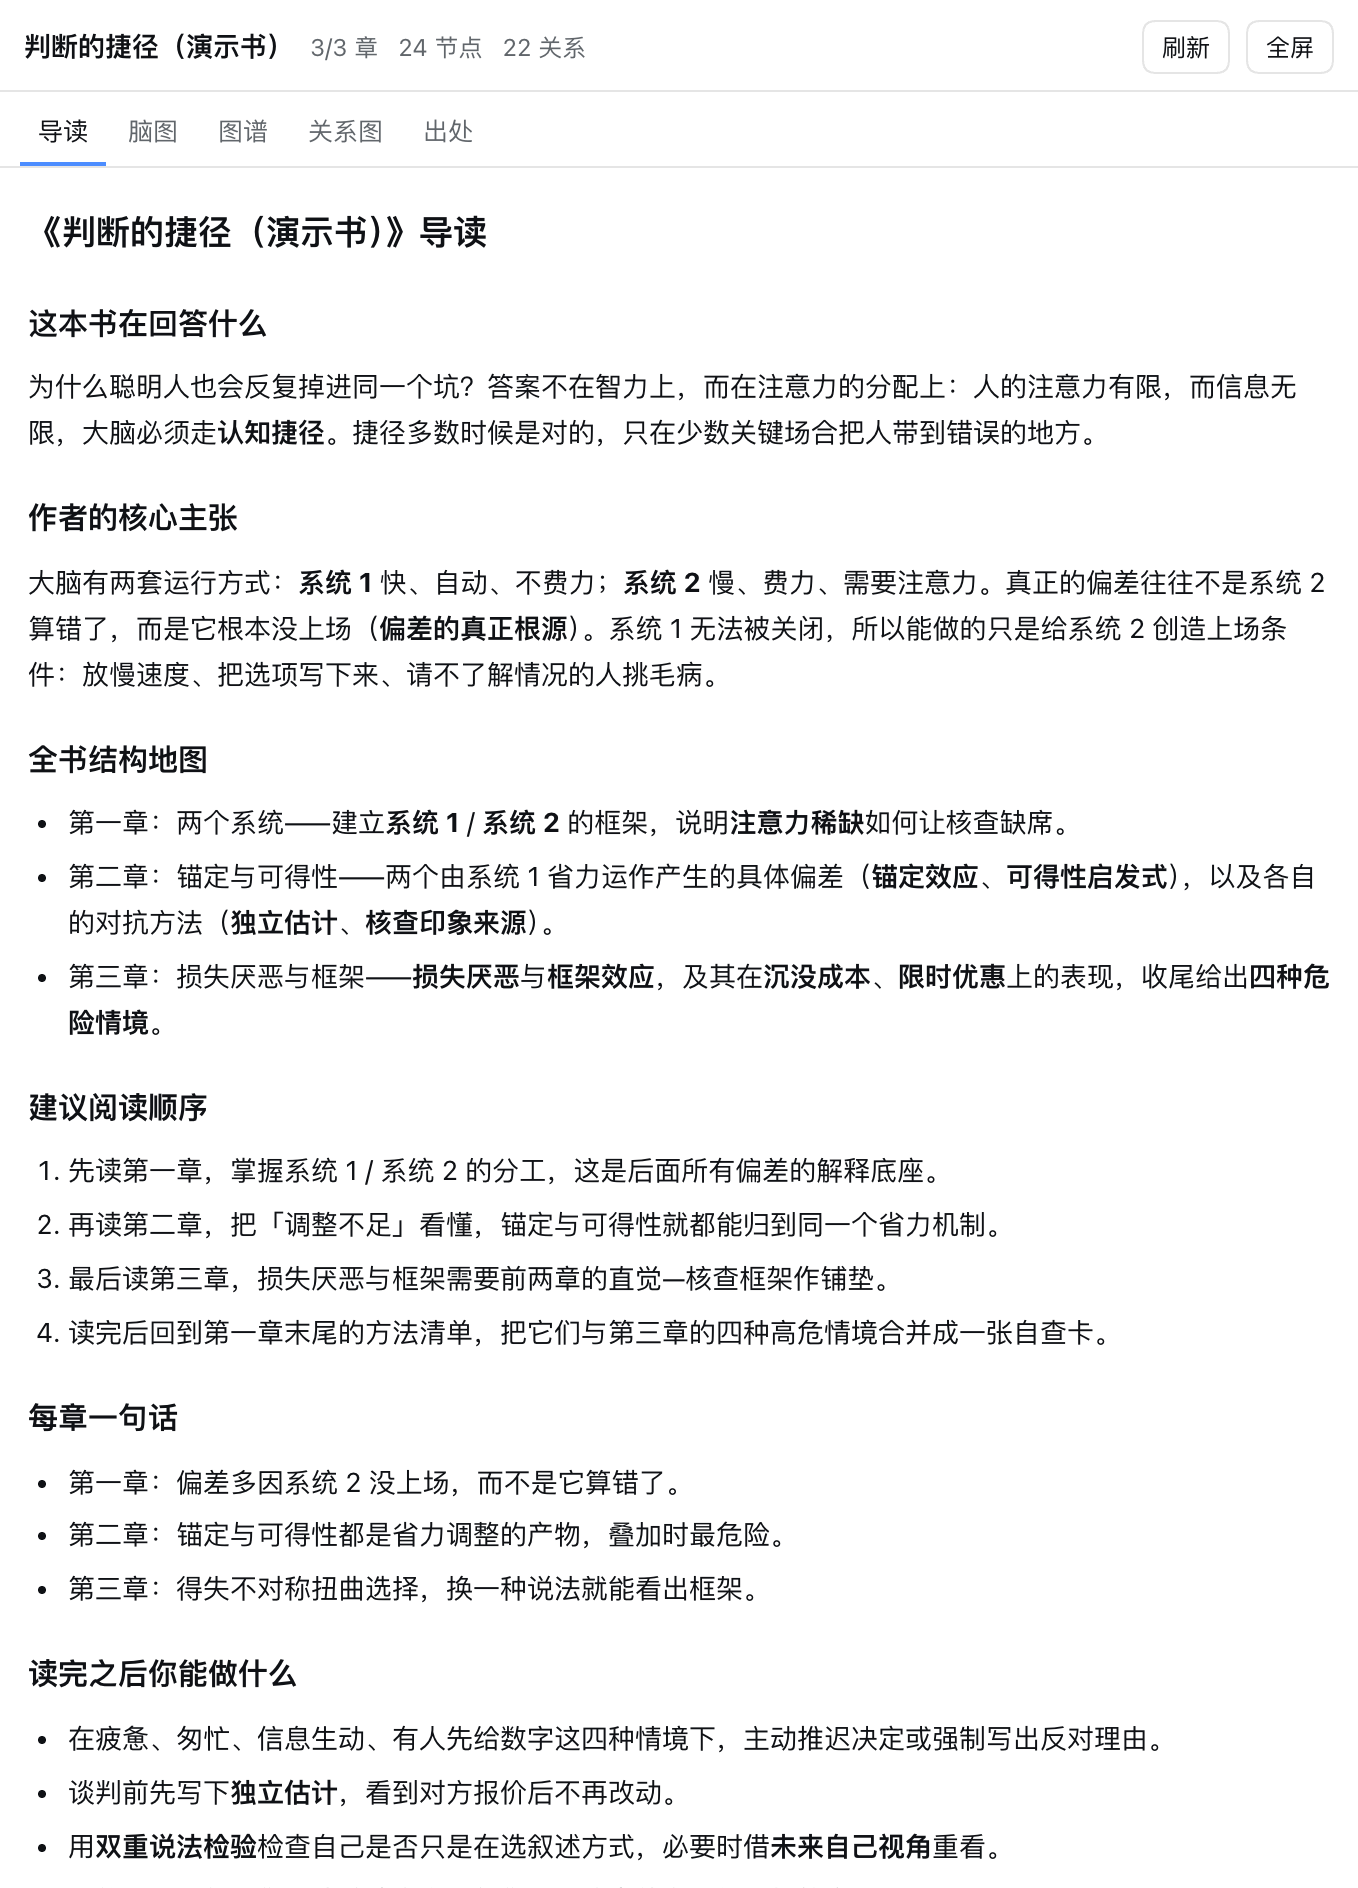
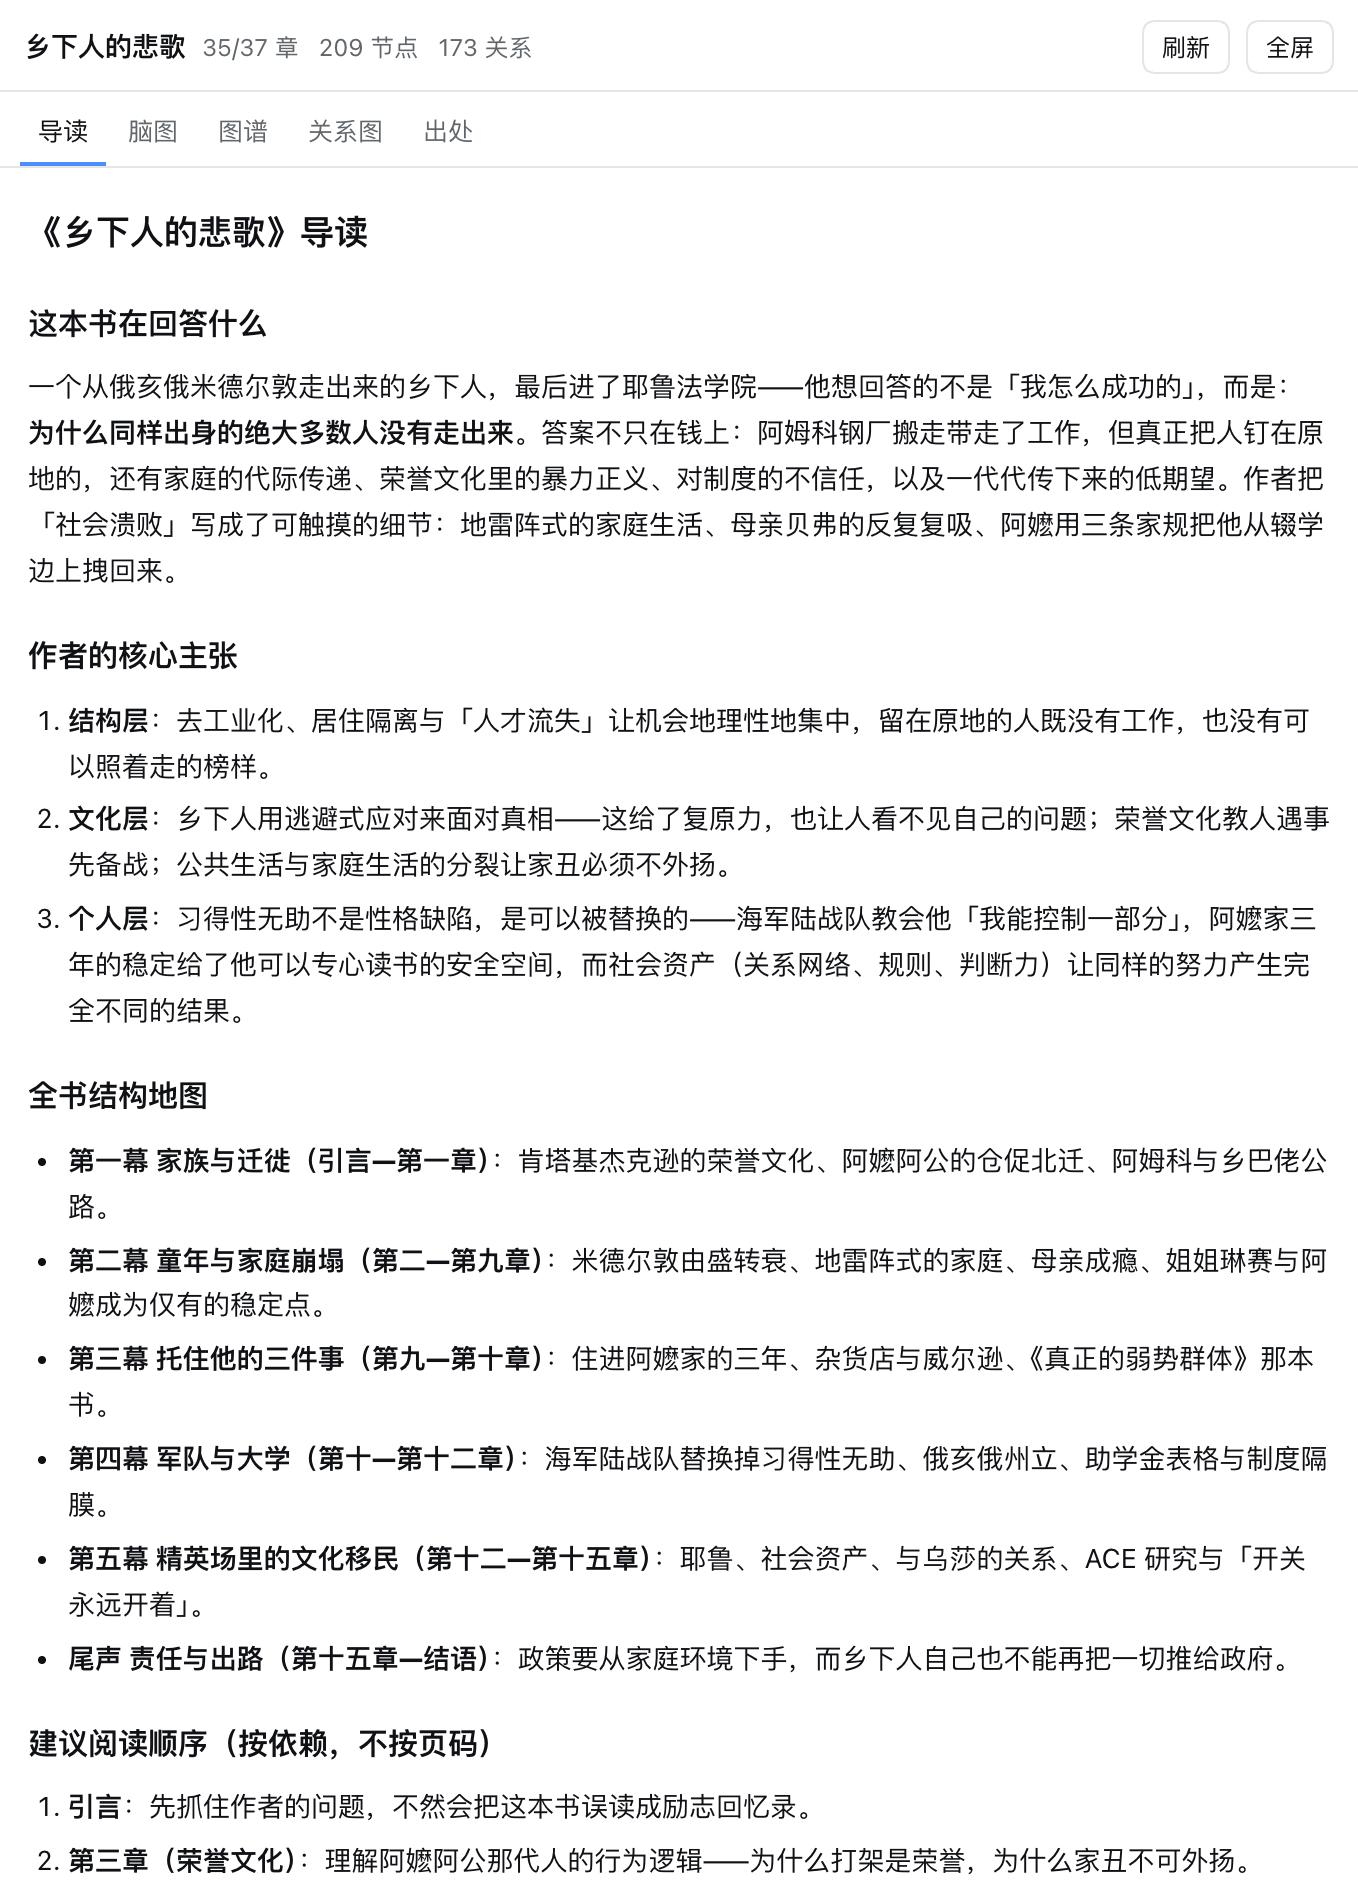
发布 @local/dsh-fast-read@0.1.3

diff --git a/plugins/dsh-fast-read/client.js b/plugins/dsh-fast-read/client.js
@@ -190,9 +190,9 @@ const CSS = `
 .fr-svg.dragging{cursor:grabbing}
 .fr-node{cursor:pointer;outline:none}
 .fr-node:focus-visible circle:first-of-type{stroke:#4c8dff;stroke-width:2}
-.fr-node text{font-size:10.5px;fill:var(--dsw-alias-label-primary,#333);pointer-events:auto}
-.fr-node.dim{opacity:.18}
-.fr-edge{stroke-width:1;opacity:.55}
+.fr-node text{font-size:10.5px;fill:var(--dsw-alias-label-primary,#333);pointer-events:none}
+.fr-node.dim{opacity:.22}
+.fr-edge{stroke-width:1.3;opacity:.75}
 .fr-edge.dim{opacity:.08}
 .fr-hint{position:absolute;left:10px;bottom:10px;padding:4px 9px;border-radius:99px;background:var(--dsw-alias-bg-layer-1,rgba(255,255,255,.9));border:.5px solid var(--dsw-alias-border-l2,#ddd);font-size:11.5px;color:var(--dsw-alias-label-secondary,#777);cursor:pointer}
 .fr-drawer{flex:none;max-height:min(46%,380px);overflow:auto;border-top:.5px solid var(--dsw-alias-border-l2,#e0e0e0);background:var(--dsw-alias-bg-layer-1,transparent);padding:10px 13px 14px}
@@ -207,15 +207,34 @@ const CSS = `
 .fr-ego-row{display:flex;align-items:center;gap:6px;font-size:12.5px}
 `
 
-/** Read one workspace file through the workspace-files service. */
+/**
+ * Read one workspace file through the workspace-files service.
+ *
+ * The service returns text one line window at a time (5000 lines by default),
+ * and a knowledge graph for a long book easily exceeds that. Reading a single
+ * page would hand JSON.parse a truncated string, which used to leave the graph
+ * empty with no visible reason. Pages are joined until the file reports its end.
+ */
 async function readWorkspaceFile(ctx, sessionId, path) {
-  try {
-    const result = await ctx.remote.workspaceFiles.read(sessionId, path, {}, undefined)
-    if (result && result.ok === true) return result.value.text
-  } catch (error) {
-    /* a missing file is the normal empty state */
+  const chunks = []
+  let offset = 1
+  for (let page = 0; page < 60; page += 1) {
+    let result
+    try {
+      result = await ctx.remote.workspaceFiles.read(sessionId, path, { offset, limit: 4000 }, undefined)
+    } catch (error) {
+      return undefined
+    }
+    if (!result || result.ok !== true) return undefined
+    const value = result.value ?? {}
+    if (typeof value.text !== "string") return undefined
+    chunks.push(value.text)
+    if (value.eof !== false) return chunks.join("\n")
+    const lines = Number(value.lines) || 0
+    if (lines <= 0) return chunks.join("\n")
+    offset += lines
   }
-  return undefined
+  return chunks.join("\n")
 }
 
 function parseJson(text, fallback) {
@@ -303,6 +322,9 @@ function useLibrary(ctx, sessionId) {
         readWorkspaceFile(ctx, sessionId, `${LIBRARY}/${pick}/mindmap.json`),
       ])
       if (!current()) return
+      if (typeof graphText === "string" && graphText.length > 0 && parseJson(graphText, null) === null) {
+        console.warn("[fast-read] graph.json 无法解析，已按空图谱显示", graphText.length)
+      }
       const meta = parseJson(metaText, null)
       const fingerprint = [
         pick,
@@ -513,15 +535,18 @@ function layoutGraph(nodes, edges) {
     .map((edge) => ({ source: edge.source, target: edge.target }))
   const ideal = Math.max(90, Math.min(160, Math.sqrt((width * height) / (count + 2)) * 0.75))
   const chapterIds = [...new Set(nodes.map((node) => node.chapter ?? 0))].sort((a, b) => a - b)
+  const anchored = chapterIds.length > 1 && chapterIds.length <= 6
   const anchors = new Map()
   chapterIds.forEach((chapter, index) => {
     const angle = chapterIds.length === 1 ? 0 : (index / chapterIds.length) * Math.PI * 2 - Math.PI / 2
-    anchors.set(chapter, {
-      x: width / 2 + Math.cos(angle) * (chapterIds.length === 1 ? 0 : width * 0.22),
-      y: height / 2 + Math.sin(angle) * (chapterIds.length === 1 ? 0 : height * 0.24),
-    })
+    anchors.set(chapter, anchored
+      ? {
+        x: width / 2 + Math.cos(angle) * width * 0.2,
+        y: height / 2 + Math.sin(angle) * height * 0.22,
+      }
+      : { x: width / 2, y: height / 2 })
   })
-  const steps = 320
+  const steps = count > 100 ? 520 : 320
 
   for (let step = 0; step < steps; step += 1) {
     const alpha = 1 - step / steps
@@ -552,7 +577,7 @@ function layoutGraph(nodes, edges) {
       const dx = b.x - a.x
       const dy = b.y - a.y
       const distance = Math.max(0.01, Math.hypot(dx, dy))
-      const pull = (distance - ideal) * 0.12 * alpha
+      const pull = (distance - ideal) * 0.1 * alpha
       const fx = (dx / distance) * pull
       const fy = (dy / distance) * pull
       a.vx += fx
@@ -564,8 +589,8 @@ function layoutGraph(nodes, edges) {
       const id = ids[index]
       const point = positions.get(id)
       const anchor = anchors.get(nodes[index].chapter ?? 0) ?? { x: width / 2, y: height / 2 }
-      point.vx += (anchor.x - point.x) * 0.03 * alpha
-      point.vy += (anchor.y - point.y) * 0.03 * alpha
+      point.vx += (anchor.x - point.x) * (anchored ? 0.04 : 0.015) * alpha
+      point.vy += (anchor.y - point.y) * (anchored ? 0.04 : 0.015) * alpha
       point.x += point.vx * 0.5
       point.y += point.vy * 0.5
       point.vx *= 0.55
@@ -606,7 +631,7 @@ function layoutGraph(nodes, edges) {
 
 function radiusOf(weight) {
   const value = Math.min(5, Math.max(1, Number(weight) || 3))
-  return 5 + (value - 1) * 3
+  return 5 + (value - 1) * 2.9
 }
 
 function GraphCanvas({ nodes, edges, selectedId, onSelect, t, height }) {
@@ -631,6 +656,11 @@ function GraphCanvas({ nodes, edges, selectedId, onSelect, t, height }) {
   }, [hover, selectedId, edges])
 
   const byId = useMemo(() => new Map(nodes.map((node) => [node.id, node])), [nodes])
+  const labelBudget = nodes.length <= 40 ? nodes.length : 15
+  const labelled = useMemo(() => {
+    const ranked = [...nodes].sort((a, b) => (b.weight ?? 0) - (a.weight ?? 0)).slice(0, labelBudget)
+    return new Set(ranked.map((node) => node.id))
+  }, [nodes, labelBudget])
 
   useEffect(() => {
     const node = svgRef.current
@@ -702,6 +732,7 @@ function GraphCanvas({ nodes, edges, selectedId, onSelect, t, height }) {
             role: "button",
             "aria-label": node.name,
             "aria-pressed": selected,
+            "data-node": node.name,
             onMouseEnter: () => setHover(node.id),
             onMouseLeave: () => setHover(null),
             onFocus: () => setHover(node.id),
@@ -725,7 +756,7 @@ function GraphCanvas({ nodes, edges, selectedId, onSelect, t, height }) {
               fill: TYPE_COLOR[node.type] ?? "#7c8ba1",
               opacity: 0.9,
             }),
-            nodes.length <= 30 || (node.weight ?? 3) >= 4 || selected || (hover !== null && hover === node.id)
+            labelled.has(node.id) || selected || (hover !== null && hover === node.id)
               ? e("text", {
                 key: "label",
                 x: radiusOf(node.weight) + 4,
@@ -897,9 +928,18 @@ function FastReadBody(props) {
   }
 
   const visibleNodes = useMemo(() => {
-    if (showAll || graph.nodes.length <= 300) return graph.nodes
-    return graph.nodes.filter((node) => (node.weight ?? 3) >= 3)
-  }, [graph.nodes, showAll])
+    if (showAll || graph.nodes.length <= 60) return graph.nodes
+    const floor = graph.nodes.length > 150 ? 5 : 4
+    const core = graph.nodes.filter((node) => (node.weight ?? 3) >= floor)
+    // Pull in the core's neighbours: a star chart with no edges shows nothing.
+    const keep = new Set(core.map((node) => node.id))
+    for (const edge of graph.edges) {
+      if (keep.has(edge.source)) keep.add(edge.target)
+      else if (keep.has(edge.target)) keep.add(edge.source)
+    }
+    const picked = graph.nodes.filter((node) => keep.has(node.id))
+    return picked.length > 220 ? core : picked
+  }, [graph.nodes, graph.edges, showAll])
   const hiddenCount = graph.nodes.length - visibleNodes.length
   const visibleIds = useMemo(() => new Set(visibleNodes.map((node) => node.id)), [visibleNodes])
   const visibleEdges = useMemo(() => graph.edges.filter((edge) => visibleIds.has(edge.source) && visibleIds.has(edge.target)), [graph.edges, visibleIds])

diff --git a/plugins/dsh-fast-read/CHANGELOG.md b/plugins/dsh-fast-read/CHANGELOG.md
@@ -1,5 +1,18 @@
 # 变更记录
 
+## [0.1.3] - 2026-11-23
+
+### 修复
+
+- **大书图谱显示 0 节点**：`graph.json` 超过工作区文件读取的单页 5000 行上限时会被截断、解析失败；现在按页读完整个文件再解析（《乡下人的悲歌》的图谱有 5643 行）。
+- **节点标签挡住点击**：标签不再拦截指针事件，点圆点或按 Tab + Enter 都能选中节点。
+
+### 调整
+
+- 图谱节点较多时（>150）默认折叠低权重节点，但保留核心节点的邻居，避免出现一张没有边的星图；折叠数量在右下角标出。
+- 标签只画给最重要的十几个节点，其余悬停或选中时出现。
+- 选中节点时聚焦其邻域（其余淡出），力导向参数与边的对比度按大图调过。
+
 ## [0.1.2] - 2026-11-23
 
 ### 修复
